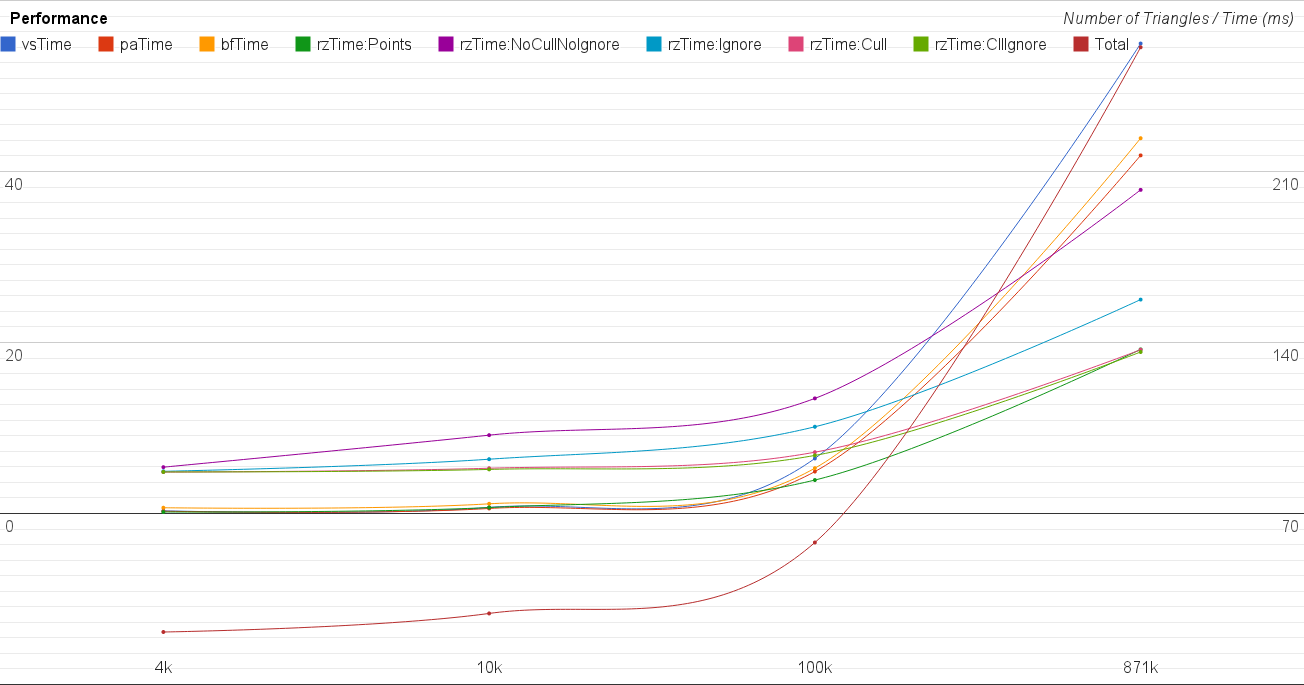
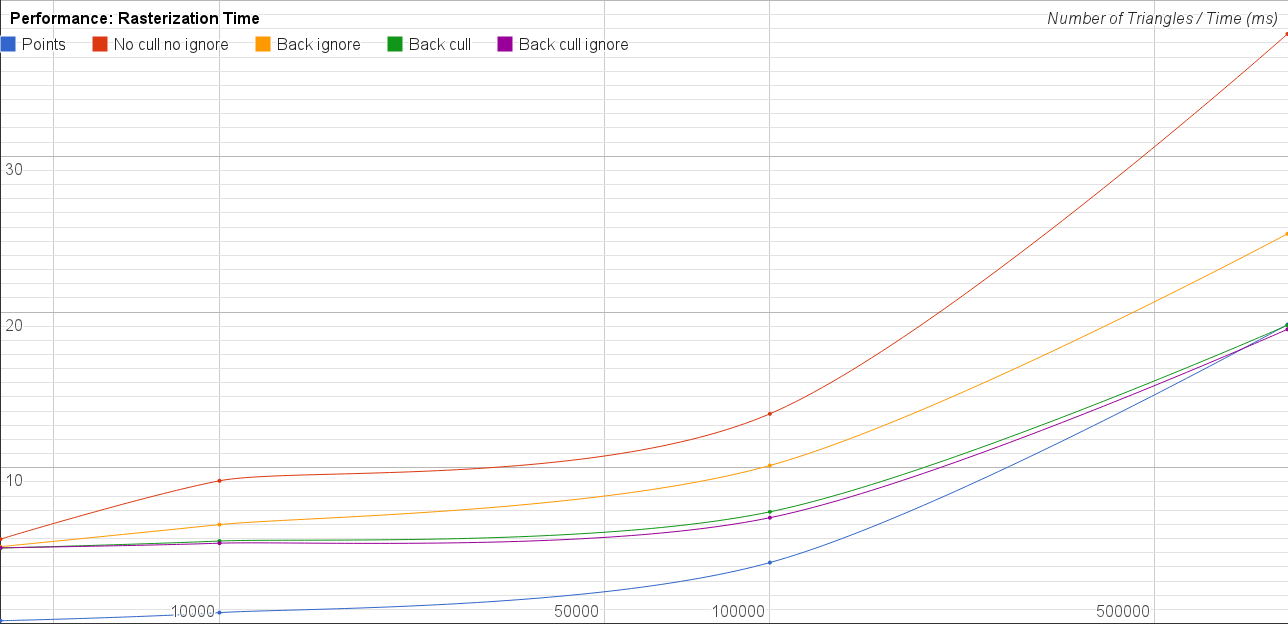
more perf

diff --git a/README.md b/README.md
@@ -44,7 +44,7 @@ Extra Features Impemented:
 * Correct Color Interpolation: Using barycentric coordinates to interpolate colors
 * Back Face Culling: Using thrust to remove faces with normals point away from the eye
 * Back Face Ignoring: After calculating fragment properties, do not perform depth test in rasterization stage
-* Dynamic Parallelization: use compute 3.5 to launch a kernel from within a kernel
+* Dynamic Parallelization: use compute 3.5 to launch a kernel from within a kernel (could not test on 7xx card, compilation and structures need to be changed, couldn't find any documentation).
 
 Basic features implemented:
 * Vertex Shading: Vertex transformations
@@ -63,9 +63,15 @@ I tried implementing locking by using a mutex per fragment (storing it in the fr
 Performance Analysis
 ---
 
+Let us first see a comparison of rasteriztion times versus number of triangles drawn on screen. This shows a comparison of rasterization with and without back face culling and back face ignoring.
+
 ![Perf](renders/perf.png)
 
-Note, that the total time is on the y axis of the left side.
+Now let us factor in the time required for vertex shading, primitive assembly and backface culling (if it is being done) and add that to get a total time.
+
+![Perf](renders/perf2.png)
+
+We notice that though the rasterization stage is faster with back-face-culling than back-face-ignoring or none, there is a large overhead  of streamcompaction which leads the back-face-ignoring to be the right balance between the two. We also should note that the fragment shader is constant across all these since it is bound by the number of fragments which is kept constant across this experiement (800x800).
 
 One curious thing we realize is that this problem lends itself to dynamic parallelism since we don't want to write a loop over the pixels in the bounding box but rather do that parallely as well.
 
@@ -77,5 +83,3 @@ Some small optimizations that I ended up doing were the following:
 * Not rasterizing on the line in case the current primitive has been crossed twice. In the worst case, this doesn't offer any speed up, in the best case, this speeds up one thread by 2x.
 
 None the less, because the above optimizations are divergent, the speedups do not linearly translate to lowering times.
-
-Back face culling seems to be just a tad bit faster than back face ignoring, but a combination of the two gives us the best result.
